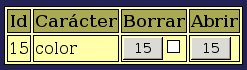
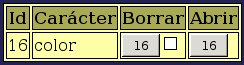
terminado interfaz, comenzado gnumeric

diff --git a/practicas/genweb.tex b/practicas/genweb.tex
@@ -4,6 +4,7 @@
 \usepackage{pslatex}
 \usepackage{graphicx}
 \usepackage{tikz}
+\usepackage{url}
 \usepackage[spanish]{babel}
 \renewcommand\shorthandsspanish{}
 \title{Laboratorio virtual de Genética}
@@ -82,10 +83,137 @@ Supongamos dos genes $A$ y $B$ que actúan consecutivamente en la mima ruta meta
 
 El producto $S_1$ es a la vez sustrato de la enzima codificada por el gen $B$. En este caso supongamos una dominancia completa de $B_1$ sobre $b_2$ en donde ambos alelos codifican una enzima funcional, pero que producen diferentes pigmentos. Podemos identificar los distintos pigmentos asignándole valores diferentes al producto $S_2$. Así, la enzima codificada por $B_1$ le asignaría un valor $S_2=2$ que podría corresponder, por ejemplo, a un color verde, y la enzima codificada por $s_2$ le asignaría un valor  $S_2=1$, que podría corresponder a un color rojo.
 
-Teniendo en cuenta las propiedades del diseño de éste caŕacter, una planta homocigótica $a_2a_2$ tendría las flores blancas, ya que la síntesis del pigmento se habría interrumpido en $S_1$ y, por lo tanto sería irrelevante qué alelos tuviese en el gen $B$. De esta forma el alelo receivo $a_2$ ejerce una interacción epistática sobre el gen $B$, es decir, una epistasis simple recesiva. Si una planta posee el alelo $A_1$, la síntesis del pigmento final dependerá entonces del gen $B$, pudiendo producir flores verdes o rojas dependiendo de la composición alélica de $B$.
+Teniendo en cuenta las propiedades del diseño de éste caŕacter, una planta homocigótica $a_2a_2$ tendría las flores blancas, ya que la síntesis del pigmento se habría interrumpido en $S_1$ y, por lo tanto sería irrelevante qué alelos tuviese en el gen $B$. De esta forma el alelo recesivo $a_2$ ejerce una interacción epistática sobre el gen $B$, es decir, una epistasis simple recesiva. Si una planta posee el alelo $A_1$, la síntesis del pigmento final dependerá entonces del gen $B$, pudiendo producir flores verdes o rojas dependiendo de la composición alélica de $B$.
+
+Una vez decidido como será el diseño del carácter veremos la forma de implmentarlo a través de GenWeb.
+
+\subsubsection{Epistasis simple recesiva en GenWeb}
+
+Puesto que ya sabemos como vamos a diseñar el carácter, pulsamos el botón ``Nuevo gen''. Aparecerá un formulario que nos permite asignarle un nombre, indicar el número de cromosoma donde queremos que se localize, así como su posición dentro del cromosoma. Para el caso que nos ocupa la posicón dentro del cromosoma es irrelevante, aunque sí tendremos que asegurarnos de situar cada gen en un cromosoma distinto de forma que tengan segregación independiente. Las marcas en X e Y se utilizan para indicar en qué cromosoma sexual se encontraría el gen, en caso en que fuese ligado al sexo, holándrico o pseudoautosómico. A y B se utilizan para indicar en qué cromosoma de una pareja autosómica se encuentra. Por defecto se encuentran marcados los dos cromosomas de una pareja autosómica. Marcar solo uno de ellos permitiría por ejemplo simular la presencia de una deleción que hubiese ocasionado la pérdida de uno de los alelos.
+
+Para nuestro diseño rellenaremos el formulario con los datos que se muestran en la figura a continuación:
 
 
+\figura{.8}{genA}
+
+Cuando pulsamos el botón ``Guardar Datos'' el formulario desaparece. Para poder ver el nuevo gen que hemos creado pulsamos el botón ``Ver Genes''. Aparecerá una tabla en la que podremos ver los datos que hemos introducido para este gen:
+
+\figura{.8}{tablaA}
+
+Ahora deberemos asignar alelos a este gen. Para ello debemos abrirlo pulsando sobre el botón de la columna ``Abrir'' que muestra la Id del nuevo gen. Al abrirlo nos aparecerá una tabla de alelos vacía, y un formulario para introducir los datos de un nuevo alelo, que rellenaremos como se muestra en la figura:
 
 
+\figura{.8}{nuevoalelo}
 
+El valor del alelo es el que éste alelo en particular asignaría al producto de la reacción en la ruta metabólica, o sumaría al valor de su sustrato en caso de tratarse de un gen con efecto acumulativo. La dominancia se expresa en \%. Un valor de 100 indicaría una dominancia completa, auque la relación con otros alelos dependerá también de los valores de dominancia de los demás alelos. Este valor puede ser superior al 100\%, lo que ocasionaría casos de sobredominancia, en los que los heterocigotos pueden tener valores fenotípicos superiores a los homócigotos para este alelo.
+
+\figura{.8}{A1}
+
+Tras pulsar el botón ``Nuevo Alelo'', los datos aparecerán en la tabla de alelos de este gen.
+
+Creamos ahora un nuevo alelo de nombre $a_2$, con un valor de 0 de acuerdo con nuestro diseño, que resultará en una variante no funcional de la enzima. Respecto al valor de dominancia, para que este alelo fuese completamente recesivo respecto a $A_1$ debería tener una dominancia 0.
+
+Una vez creado este nuevo alelo, la tabla de alelos del gen A quedaría así:
+
+
+\figura{.8}{alelosA}
+
+
+Pulsamos ahora sobre el botón ``Cerrar'' que hay sobre la tabla de alelos para cerrar el gen $A$.
+
+Ahora pasaremos a crear el gen $B$ repitiendo los mimos pasos. Los datos a consignar para el Gen $B$ y sus dos alelos son los siguientes:
+
+
+\figura{.8}{genB}
+
+Los valores que se observan en las tablas son los que deben introducirse en los respectivos formularios.
+
+Una vez que todo está correcto, podemos cerrar el gen $B$.
+
+\subsection{Conexiones entre los genes}
+
+Ya hemos creado los genes, pero no hemos establecido ninguna ruta metábólica con ellos. Si queremos que tengan determinado tipo de interacción, deberemos establecer las posiciones en las que actúan en la ruta.
+
+Para ello pulsamos el botón ``Ver conexiones''. Puesto que aún no hemos establecido ningna conexión entre los genes, solo veremos un mensaje indicando esta situación. Debajo vermos un botón rotulado ``Cambiar Sustratos'' y un campo donde escribir el número de sustratos, una tabla que muestra los dos genes junto con botones de selección, y otro botón rotulado ``Guardar conexión''. Al mismo tiempo, el botón para ver conexiones habrá cambiado por otro rotulado ``Ocultar Conexiones''.
+
+En primer lugar deberemos contar con los sustratos necesarios para nuestro diseño. Se entiende aquí sustrato en sentido amplio, ya que el sustrato de una enzima puede ser a su vez el producto de otra. Según nuestro diseño, la enzima codificada por el gen $A$ actuaría sobre un sustrato $S_0$ proporcionando el producto $S_1$ que, a su vez sería sustrato de $B$ proporcionando el pigmento final $S_2$. Necesitamos por tanto 3 sustratos para poder definir la ruta metabólica. Por tanto escribiremos un 3 en el campo ``Nº sustratos'' y pulsamos sobre el botón ``Cambiar sustratos''.
+
+Aparecerán tablas de sustratos similares a la de los genes, y estarán repetidas por encima y por debajo de esta tabla de genes.
+
+\figura{}{conexiones1}
+
+Para establecer una conexión, debemos elegir de la tabla de sustratos superior el sustrato que deseemos, a continuación elegimos el gen que codificará la enzima que actuará sobre ese sustrato, y elegiremos el producto de la reacción en la tabla inferior. Por ejemplo, según nuestro diseño debríamos elegir $S_0$ en la tabla superior, $A$ en la tabla de genes, y $S_1$ en la tabla inferior:
+
+\figura{.2}{con1}
+
+Tras pulsar el botón ``Guardar Conexión'', ésta aparecerá en la tabla de conexiones:
+
+
+\figura{.4}{tablacon1}
+
+A continuación crearemos la siguiente conexión entre $S_1$, $B$ y $S_2$, quedando la tabla de conexiones como sigue:
+
+
+\figura{.4}{tablacon2}
+
+Ya podemos dar por terminado nuestro diseño de un carácter con una herencia epistática recesiva en la que intervienen dos genes con dominancia completa.
+
+Pulsamos entonces consecutivamente sobre los botones: ``Ocultar Conexiones'', ``Ocultar Genes'', y ``Cerrar'', para cerrar definitivmente el carácter en el que hemos estado trabajando.
+
+De ahora en adelante podremos utilizar este carácter en nuestros proyectos.
+
+\section{Creación de un proyecto}
+
+Para crear nuestro primer proyecto pulsamos sobre el botón ``Proyectos'' del menú principal. Nos aparecerá una tabla de proyectos vacía y un pequeño formulario para crear un proyecto nuevo. Elegimos un nombre para ese proyecto, por ejemplo: ESD, y pulsamos sobre el botón ``Nuevo Proyecto''. Nuestro nuevo proyecto deberá entonces aparecer en la tabla:
+
+\figura{.7}{esd}
+
+Con esto solo hemos creado un proyecto vacío, deberemos abrirlo para poder trabajar en él. Al pulsar el botón ``Abrir'' veremos una tabla de caracteres asociados a este proyecto, que ahora estará vacía. En la parte superior se muestra el nombre y la Id del proyecto que se encuentra abierto.
+
+Debemos ahora asociar el carácter \emph{color} a este proyecto. Para ello pulsamos sobre el botón ``Caracteres'' del menú principal, y veremos que sobre la tabla de caracteres aparece el nombre del proyecto activo. Pulsamos una sola vez el botón de la columna ``Seleccionar'' que muestra la Id del carácter \emph{color}. Aparecerá un mensaje indicando que se ha insertado el carácter en el proyecto activo. De hecho, si volvemos al proyecto, veremos que en la tabla de caracteres asociados aparece ahora el carácter seleccionado.
+
+En esta tabla de caracteres asociados al proyecto el campo ``ambiente'' es un valor que determina las variaciones que los cambios ambientales pueden llegar a producir en el fenotipo de los individuos. En nuestro caso pretendemos que el carácter \emph{color} produzca flores de un color determinado de manera independiente a las condiciones ambientales, por lo que asignaremos el valor 0 a este campo, tras lo cual pulsaremos el botón de la columna ``Actualizar'' correspondiente a nuestro carácter. Este valor de ambiente puede modificarse en cualquier momento pulsando de nuevo en este botón.
+
+\section{Creación de una población}
+
+Vamos ahora a crear una población aleatoria en nuetro proyecto. Para ello pulsamos sobre el botón ``Generaciones'' del menu principal. En esta parte existen diversos formularios que nos permiten realizar diferentes tipos de operaciones. En nuestro caso nos interesa el apartado \emph{Crear Generación aleatoria}
+
+\figura{.7}{crear}
+
+Tecleamos un tamaño para la población, en el ejemplo: 200 individuos, y pulsamos sobre el botón ``Crear Generación''. No veremos ningún efecto salvo que el número de generación por defecto que aparece ahora en el formulario es el 2 en lugar de 1.
+
+Si queremos ver las generaciones que hemos creado pulsaremos sobre el botón ``Ver Generaciones''. Aparecerá una tabla que mostrará la generación recién creada:
+
+
+\figura{.3}{g1}
+
+Si pulsamos sobre el botón ``Abrir'' de la generación que nos interese ver nos aparecerá a la derecha una tabla con la lista de individuo de esa población y sus valores fenotípicos. Los botones de la columna ``Selec.'' sirven para seleccionar individuos concretos como parentales de una nueva generación, aunque no los utilizaremos en esta ocasión.
+
+\figura{.4}{tablageneracion}
+
+Al final de la tabla veremos un enlace para descargar los datos. Dependiendo del navegador que utilizemos podemos pulsar sobre él para descargar un archivo de texto con los datos de esta generación, o pulsar con el botón derecho del ratón y elegir ``Guardar enlace como\ldots'' o alguna opción similar.
+
+Elegiremos donde queremos guardar ese archivo en nuestro ordenador y, posteriormente lo analizaremos en una hoja de cálculo. el nombre del archivo, por ejemplo ``27\_1\_datos.csv indica la Id del proyecto (27) y la generación (1) a los que corresponde.
+
+\section{Análisis estadístico}
+
+Para el análisis estadístico de la población utilizaremos el programa \emph{gnumeric} que podremos descargar e instalar manualmente de:
+
+\begin{center}
+\url{http://projects.gnome.org/gnumeric/downloads.shtml}
+\end{center}
+
+si usamos Windows, o desde:
+
+\begin{center}
+http://www.flyn.org/apple/index.html
+\end{center}
+
+si usamos Mac, o con:
+
+\begin{center}
+	\textbf{sudo apt-get install gnumeric}
+\end{center}
+
+en distibuciones basadas en Linux Debian, o con tu gestor de paquetes favorito en cualquier otra distribución basada en UNIX
 \end{document}
